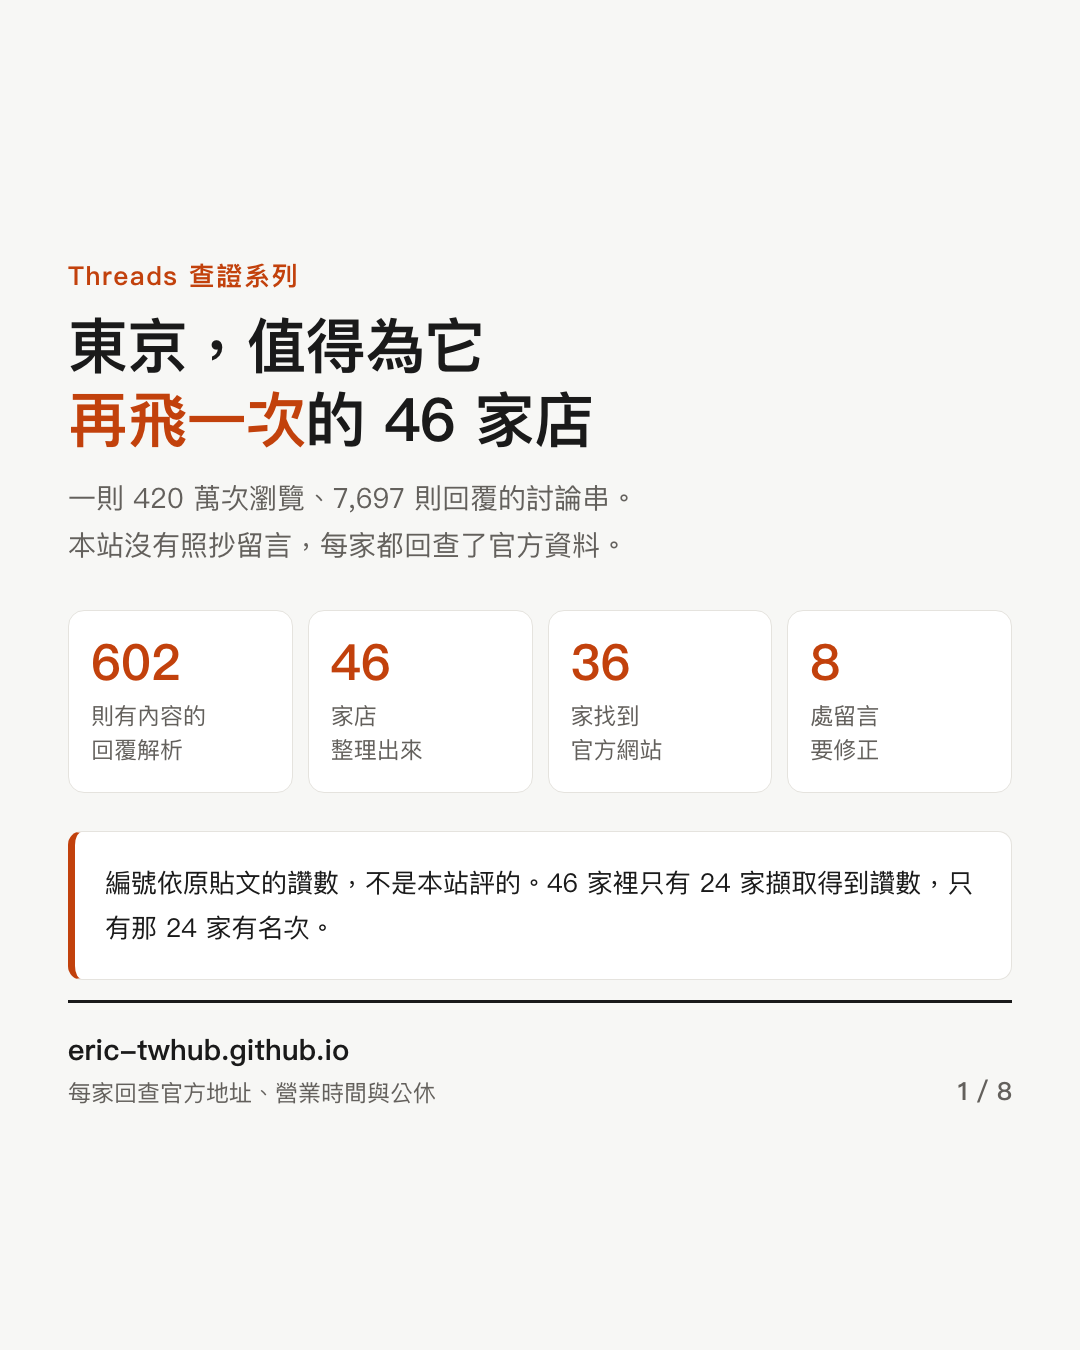
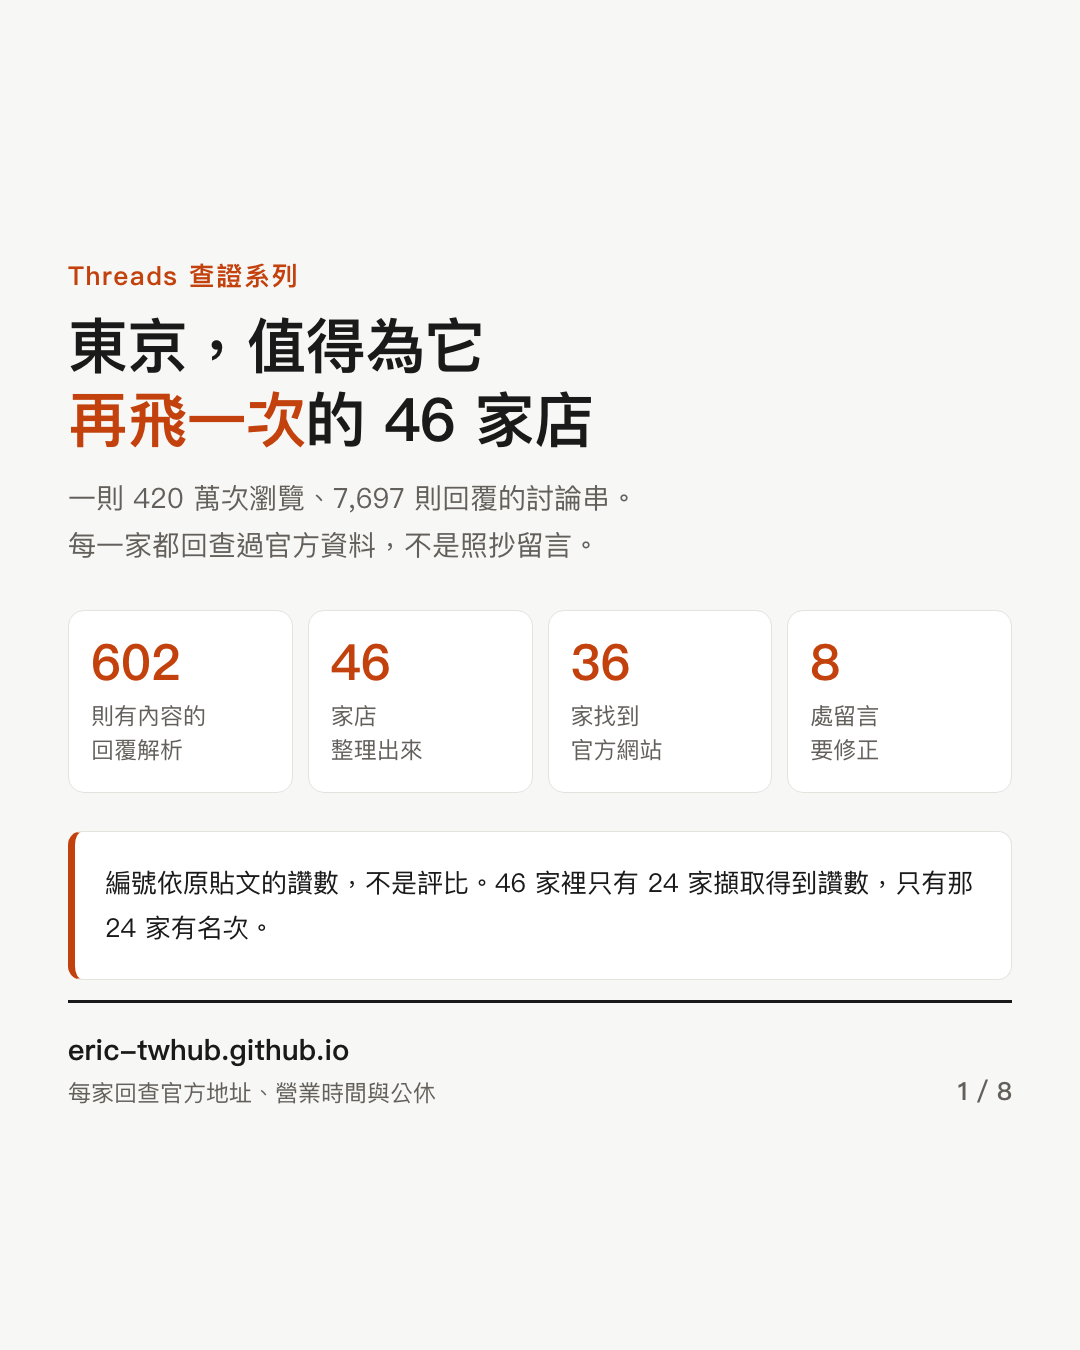
圖卡文案掃過 22 組：把本站的作業狀態換成讀者要的說法
逐組把 build() 產出的 HTML 抽成純文字掃，不是看圖。改掉 12 處：

・東京美食「本站沒有照抄留言」「不是本站評的」「我們沒有擷取到」
・日本新制「本站顯示的含稅票價」改成「你看到的含稅票價」；住宿稅
  「本站只做了自己有城市頁的幾個」改成「這裡只列台灣旅客最常去的」
・eSIM「5 個商品的 profile 欄位都還是空的」改成「商品頁都沒寫是原生
  還是漫遊」
・JTTP 三處：「本站還沒查到」改成「官方頁面上看不出來」、「本站不寫成
  數字」、「會被拒絕，與還沒查到的」改成「與官方沒寫明的」、
  「本站沒有辦法保證每家店櫃台都知道」改成「不是每家店的櫃台都熟悉」
・機場末班車表格「沒有軌道運輸，或本站還沒查到」改成「沒有直達市區的
  軌道運輸」
・租車 NOC「各平台流程不同，沒有逐一確認。本站不猜」改成「訂之前看一下
  你訂的那家怎麼寫」
・訂房比價「本站的測試環境上沒有顯示房價」改成「Agoda 的手機版沒有顯示
  出房價」；圖卡標題「本站的處理」改成「這一頁怎麼處理」
・請假攻略三處「本站頁面上」「本站照往年推估」「本站標成推估」

保留的是法律免責、聯盟揭露，以及「本站票價實算」「本站紀錄中的最低價」
「本站實測」那類把量測歸屬到本站的寫法，那是讀者判斷可信度要用的。

受影響的 12 組圖卡重產，指紋全部對得上。

Changed region(s): [[0.3972, 0.6222, 0.8861, 0.6844], [0.0611, 0.3733, 0.55, 0.4356], [0.0917, 0.6533, 0.275, 0.7156]]

diff --git a/gen.py b/gen.py
@@ -320,7 +320,7 @@ def _rate_basis(st):
                 '你買的品項是哪一檔要看下面的類別表。')
     if any(c in st['rate'] for c in '–-~～') or '最高' in st['rate'] or '起' in st['rate']:
         return (f'該店公告的折扣是「{html.escape(st["rate"])}」，不是固定一個數字。'
-                '本站還沒查清楚分級依據是金額還是商品類別，'
+                '官方頁沒有寫分級依據是金額還是商品類別，'
                 f'下表一律以最高的 {st["max"]}% 試算，<b>你實際拿到的可能更低</b>。')
     return f'該店為單一費率 {st["max"]}%。'
 
@@ -1486,7 +1486,7 @@ for slug,name,codes,reg,hotelcity in CITIES:
                           f'{money(_tc_best["price"])}</b>'
                           f'（{_tc_best["airname"]}，{_tc_best["dep"]} 出發）。')
             else:
-                intro += (f'<b>本站目前沒有 Trip.com 的{pt}紀錄可以對照</b>，'
+                intro += (f'<b>目前沒有 Trip.com 的{pt}紀錄可以對照</b>，'
                           f'點下方按鈕可查當日實際票價。')
         if lccs: intro+=f'飛{name}的廉價航空有 {"、".join(lccs[:4])}。'
         if len(oris)>1:
@@ -1858,7 +1858,7 @@ if os.path.exists('baggage.json'):
       + '<div class="tw"><table><thead><tr><th>航空公司</th><th>類型</th>'
         '<th>託運行李</th><th>來源</th></tr></thead><tbody>' + _farerows + '</tbody></table></div>'
       + f'<p class="disc">其餘 {len(BG["unverified"])} 家飛台日的航空'
-        f'（{html.escape("、".join(BG["unverified"][:6]))} 等）本站尚未查證，'
+        f'（{html.escape("、".join(BG["unverified"][:6]))} 等）還沒逐項對過官方頁，'
         f'所以不列。與其抄第三方整理，不如先空著。</p>'
       + '<h2>順便看看</h2><div class="cities">'
       + f'<a class="ct" href="{U("/japan-flight-good-times/")}"><b>☀ 早去晚回</b>'
@@ -4429,7 +4429,7 @@ if os.path.exists('tokyo-picks.json'):
           '　本站沒有轉載該名單，只指出兩份清單的差異。</p>')
          if TP.get('award') else '')
       + '<h2>這幾則沒解開</h2>'
-      + '<p class="lede">有人推薦但線索不足，查不到是哪一家，本站不硬湊。</p>'
+      + '<p class="lede">有人推薦但線索不足，查不到是哪一家，所以沒有列進去。</p>'
       + f'<ul class="lede">{_tp_un}</ul>'
       + '<h2>資料出處</h2>'
       + '<div class="tldr"><ul>'
@@ -5114,7 +5114,7 @@ if os.path.exists('jttp.json'):
       '因此無法確認非居住者身分時，店家不能賣你免稅品；但使用這個制度入境的人，'
       '卡片上會記載在留資格與上陸年月日，所以出示護照加上特定登録者カード 就可以免稅販售。'
       '結帳時兩張一起拿出來。要注意這份 Q&A 是 2018 年版，'
-      '2026/11/1 免稅改成出境退稅之後有沒有改版，本站還沒查到。'),
+      '2026/11/1 免稅改成出境退稅之後有沒有改版，官方頁面上看不出來。'),
      ('效期多久？',
       '自交付日起算三年，或護照效期屆滿日，兩者取較早的那個。'
       '所以如果你的護照剩不到三年，這張卡也跟著縮短。'),
@@ -6208,7 +6208,7 @@ if HOL:
           '那是台灣人出國的日子；日本放假時是日本人在自己國內旅行，'
           '你在跟他們搶同一批飯店與新幹線座位。兩個高峰不一定重疊。'),
          ('祭典那一欄寫「推估」是什麼意思？',
-          '代表主辦單位還沒公布那一年的日期，表上的是本站照往年日期或慣例推的。'
+          '代表主辦單位還沒公布那一年的日期，表上的是照往年日期或慣例推的。'
           '推估的依據寫在同一列。要訂機票請等官方公布，不要照推估的日期下訂。'
           '官方寫明「每年同一天」的祭典標的是「每年固定」，那一類可以直接排。'),
         ]
@@ -6305,7 +6305,7 @@ if HOL:
           + '<p class="lede">這些日子當地的住宿與交通會一起被吃掉，'
             '而且很多是台灣人排假時不會想到的。'
             '最後一欄寫明每個日期是怎麼來的：官方寫明每年同一天的、'
-            '該年度已經公布的、還是本站照往年推估的。</p>'
+            '該年度已經公布的、還是照往年推估的。</p>'
           + ('<div class="tw"><table><tr><th>日期</th><th>祭典</th><th>地點</th>'
              '<th>日期怎麼來的</th><th>說明與出處</th></tr>'
              + f_rows + '</table></div>' if f_rows
@@ -6322,7 +6322,7 @@ if HOL:
              '<tr><th>日期</th><th>祭典</th><th>地點</th>'
              '<th>日期怎麼來的</th><th>說明與出處</th></tr>'
              + f_past + '</table></div></div></details>' if f_past else '')
-          + (('<p class="disc">下面這些本站有收，但 ' + ys + ' 年的日期還沒有依據可以推：'
+          + (('<p class="disc">下面這幾個，' + ys + ' 年的日期還沒有依據可以推：'
               + '、'.join(html.escape(f['name']) for f in f_miss)
               + '。沒有資料就不列，不用往年日期直接套。</p>') if f_miss else '')
           + (f'<p class="disc">{html.escape(FEST["_為什麼不全部推估"])}</p>'
@@ -7244,7 +7244,7 @@ for cslug in CITY:
                             if _t2 < own else '，就不比直飛便宜了。') + '</p>')
             else:
                 _disc = (f'<p class="disc">飛{aname}的這筆 {money(ab["price"])} 來自 '
-                         f'{html.escape(_gn)}，台灣讀者較陌生；本站目前沒有 Trip.com 的'
+                         f'{html.escape(_gn)}，台灣讀者較陌生；目前沒有 Trip.com 的'
                          f'{_ablbl}紀錄可以對照，實際票價請點連結確認。</p>')
         desc=(f'直飛{cname}最低 {money(own)}，改飛{aname}（{money(ab["price"])} {_ablbl}）'
               f'再搭{mode}（{tm}），總計約 {money(total_v)}，省下 {money(own-total_v)}。')
@@ -9006,7 +9006,7 @@ if os.path.exists('cards.json'):
           '<th>換匯依據</th><th>資料來源</th></tr></thead><tbody>'
           + _mp_rows + '</tbody></table></div>'
           f'<p class="disc">查證於 {MP["checked"]}。'
-          '標示「第三方整理」者本站尚未逐項比對發卡行或電支業者的官方公告，'
+          '標示「第三方整理」者還沒逐項比對發卡行或電支業者的官方公告，'
           '各家可綁的付款來源與檔期回饋變動很快，出發前請以業者當期公告為準。</p>'
           '<h3>所以怎麼選</h3>'
           '<div class="tldr"><ul>'
@@ -10572,7 +10572,7 @@ if PC:
       f'{_pc_avg:.2f}%；另外 2 間沒有標籤的，兩邊一毛不差。'
       '所以判斷依據是有沒有 Genius 標籤，不是「手機一定比較便宜」。'),
      ('其他訂房網也有這種情況嗎？',
-      'Klook 實測同價。Agoda 的手機版在本站的測試環境上沒有顯示房價，'
+      'Klook 實測同價。Agoda 的手機版沒有顯示出房價，'
       'Trip.com 的手機版未登入會被導向登入頁，這兩家沒有測到結果。'
       '沒有測到不等於沒有差異，如果你在用這兩家，值得自己開 App 比一次。'),
      ('從返利網點進去訂，會比較划算嗎？',
@@ -10610,7 +10610,7 @@ if PC:
      ('03', '手機版便宜 9.09%', 'Booking 同房對照'),
      ('04', '四個通路測下來', '不是每家都這樣'),
      ('05', '比結帳頁的總價', '六個通路'),
-     ('06', '比價這件事有利益衝突', '本站的處理'),
+     ('06', '比價這件事有利益衝突', '這一頁怎麼處理'),
      ('07', '訂之前的檢查點 ①', '七條'),
      ('08', '訂之前的檢查點 ②', '續前'),
     ]
@@ -10702,7 +10702,7 @@ if PC:
       + '</tbody></table></div>'
       + f'<p class="disc">{html.escape(_CH["official_rule"])}</p>'
       + '<h2>從返利網點進去，划得來嗎</h2>'
-      + f'<div class="today"><div class="tday">本站狀態：{html.escape(_pc_r["state"])}</div>'
+      + f'<div class="today"><div class="tday">{html.escape(_pc_r["state"])}</div>'
         f'<div class="tsub">{html.escape(_pc_r["why"])}</div></div>'
       + '<h3>導購連結會改價，這件事測出來了</h3>'
       + f'<p class="lede">{html.escape(_pc_mech["_說明"])}'

diff --git a/make_twholiday_cards.py b/make_twholiday_cards.py
@@ -298,7 +298,7 @@ def build(d):
             f'<h1>接下來 {len(take)} 個假期，<br><em>各自最划算的排法</em></h1>'
             f'<div class="sub">這幾段一路排到 {_rng(_last, _last)}。'
             '每個假期只列最划算的那一種：一天換到最多天的那個排法。'
-            '再後面的在本站頁面上有完整的表。</div>'
+            '再後面的完整表格在網站上。</div>'
             f'<div class="list">{rows}</div>', '',
             f'接下來 {len(take)} 個假期的排法', '由近到遠，附要請哪幾天')
 
@@ -318,7 +318,7 @@ def build(d):
         add('<div class="kick">住宿與交通會一起被吃掉</div>'
             '<h1>日本接下來的<br><em>祭典與花火</em></h1>'
             + '<div class="legend">日期右下角寫明是官方定死的、該年度已公布的，'
-              '還是本站照往年推估的。</div>'
+              '還是照往年推估的。</div>'
             + (f'<div class="legend">第 {k + 1} 組，共 {n} 組</div>'
                if n > 1 else '')
             + f'<div class="list">{rows}</div>', '',
@@ -340,7 +340,7 @@ def build(d):
         add('<div class="kick">哪些日期可以直接排</div>'
             '<h1>標「推估」的，<br><em>不要照著訂機票</em></h1>'
             '<div class="sub">官方寫明每年同一天的可以直接排。'
-            '主辦單位還沒公布那一年日期的，本站標成推估，依據寫在下面。</div>'
+            '主辦單位還沒公布那一年日期的標成推估，依據寫在下面。</div>'
             f'<div class="list">{rows}</div>'
             '<div class="stat">'
             f'<div><b>{n_fx}</b><span>個每年固定<br>可以直接排</span></div>'

diff --git a/make_picks_cards.py b/make_picks_cards.py
@@ -181,13 +181,13 @@ def build(d):
     cover = ('<div class="kick">Threads 查證系列</div>'
              f'<h1>東京，值得為它<br><em>再飛一次</em>的 {len(S)} 家店</h1>'
              f'<div class="sub">一則 {E(src["views"])}、{src["replies"]:,} 則回覆的討論串。<br>'
-             '本站沒有照抄留言，每家都回查了官方資料。</div>'
+             '每一家都回查過官方資料，不是照抄留言。</div>'
              '<div class="stat">'
              '<div><b>602</b><span>則有內容的<br>回覆解析</span></div>'
              f'<div><b>{len(S)}</b><span>家店<br>整理出來</span></div>'
              f'<div><b>{off}</b><span>家找到<br>官方網站</span></div>'
              f'<div><b>{bad}</b><span>處留言<br>要修正</span></div></div>'
-             '<div class="note">編號依原貼文的讚數，不是本站評的。'
+             '<div class="note">編號依原貼文的讚數，不是評比。'
              f'{len(S)} 家裡只有 {withlikes} 家擷取得到讚數，只有那 {withlikes} 家有名次。</div>'
              + foot(1, n))
     out.append(('tokyo-46-01.png', page(cover, 'cover')))
@@ -222,7 +222,7 @@ def build(d):
                  f'<h1>{E(t)}<em> {len(items)}</em></h1>'
                  f'<div class="sub">{E(sub)}</div>'
                  f'<div class="legend">編號是原貼文那則留言的讚數名次。'
-                 f'沒有編號的不是墊底，是我們沒有擷取到它的互動數字。</div>'
+                 f'沒有編號的不是墊底，是那則留言看不到互動數字。</div>'
                  f'<div class="list">{rows}</div>' + foot(i, n))
         out.append((f'tokyo-46-{i:02}.png', page(inner)))
 

diff --git a/make_shops_cards.py b/make_shops_cards.py
@@ -139,7 +139,7 @@ def build(d):
         '<div class="sub">原 PO 問了燒肉、拉麵、海鮮，整串留言全部在回潮牌。</div>'
         '<div class="list">'
         '<div class="blk"><b><i>·</i>美食另外整理過</b>'
-        '<s>本站另做了 46 家東京餐廳，每一家都回查過官方營業時間與公休，'
+        '<s>另外整理過 46 家東京餐廳，每一家都回查過官方營業時間與公休，'
         '其中一家在留言寫完之後已經歇業。</s></div>'
         '<div class="blk"><b><i>!</i>什麼時候去，比逛哪幾家更影響花費</b>'
         '<s>日本的免稅 2026/11/1 改制。10/31 之前結帳直接扣 10%，當場就是免稅價；'

diff --git a/make_esim_cards.py b/make_esim_cards.py
@@ -305,7 +305,7 @@ def build(d):
              '<h1>沒有一個商品<br><em>在所有項目都贏</em></h1>'
              f'<div class="list">{rows}'
              f'<div class="blk"><b>這五個商品的原生／漫遊仍未查證</b>'
-             f'<s>{noprof} 個商品的 profile 欄位都還是空的。'
+             f'<s>這 {noprof} 個商品的商品頁都沒寫是原生還是漫遊。'
              '那要實機插卡、查 IP 出口才知道，光看商品頁判斷不了。'
              '寫「未查證」，不寫「漫遊」。另外兩個查得到官方文件的案例見下一張。</s></div>'
              '</div>' + foot(8, n, fnote))

diff --git a/make_jttp_cards.py b/make_jttp_cards.py
@@ -237,7 +237,7 @@ def build(d):
     uv = ''.join(f'<div class="row"><div class="no">?</div>'
                  f'<div class="nm">{E(u["what"])}<s>{E(u["why"])}</s></div></div>'
                  for u in d['unverified'][:3])
-    inner = ('<div class="kick">會被拒絕，與還沒查到的</div>'
+    inner = ('<div class="kick">會被拒絕，與官方沒寫明的</div>'
              '<h1>官方沒有公告<em>審查要多久</em></h1>'
              '<div class="sub">社群回報一次審查約兩個月，那是個別經驗不是規則，'
              '這裡不寫成數字。</div>'

diff --git a/make_lasttrain_cards.py b/make_lasttrain_cards.py
@@ -204,7 +204,7 @@ def build(d):
     for a in air:
         if not best_rail(a):
             rows += (f'<div class="row"><div class="nm">{E(a["name"])}'
-                     '<s>沒有軌道運輸，或本站還沒查到</s></div>'
+                     '<s>沒有直達市區的軌道運輸</s></div>'
                      '<div class="t none">見下</div></div>')
     inner = ('<div class="kick">最後一班能直接進市區的車</div>'
              '<h1>七個機場的<em>末班車</em></h1>'

diff --git a/make_pricecheck_cards.py b/make_pricecheck_cards.py
@@ -115,7 +115,7 @@ def build(d):
     pend.append((inner, ''))
 
     rf = d['referral']
-    inner = ('<div class="kick">為什麼本站不直接說哪家最便宜</div>'
+    inner = ('<div class="kick">為什麼不直接說哪家最便宜</div>'
              '<h1>比價這件事<br><em>有利益衝突</em></h1>'
              f'<div class="sub">{E(rf["_說明"])}</div>'
              '<div class="list">'
